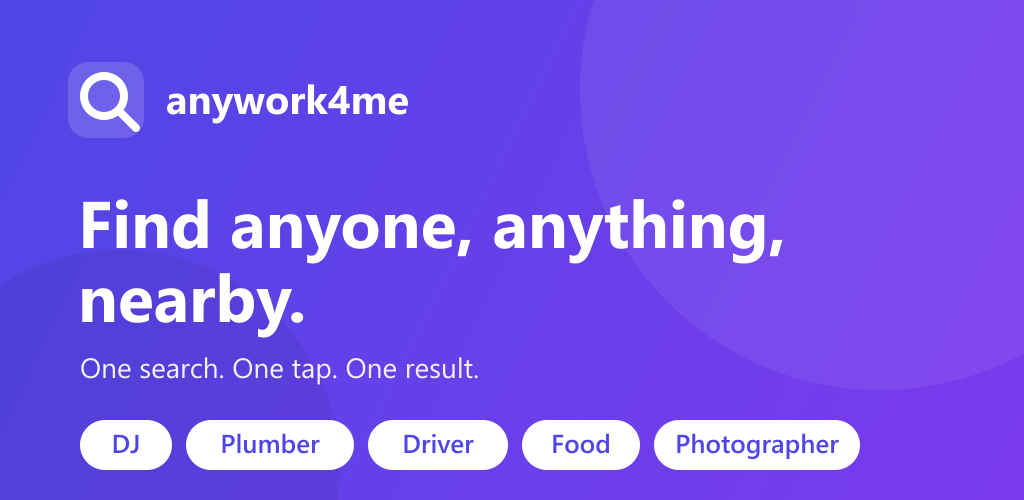
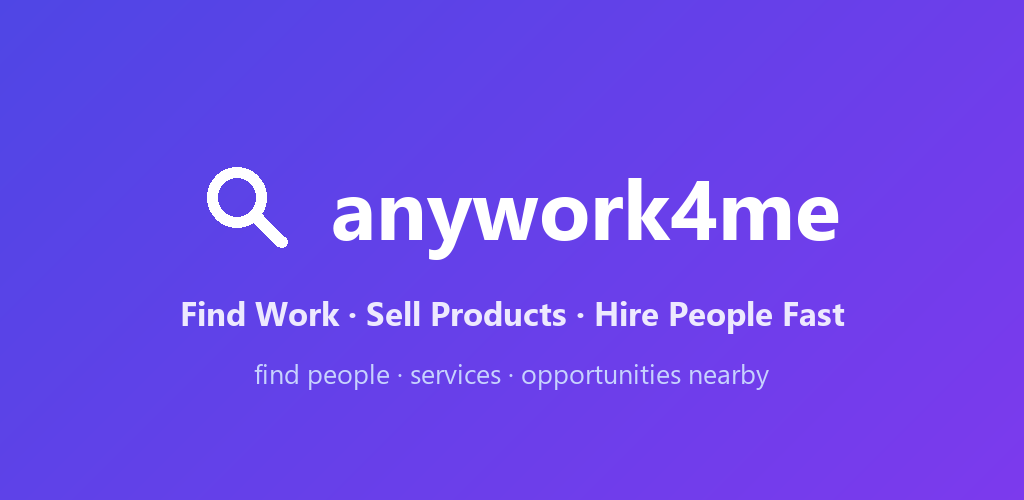
Purple social share image (og.png) + purple render scripts

diff --git a/scripts/render_reel.py b/scripts/render_reel.py
@@ -1,0 +1,254 @@
+"""Render the anywork4me summary as a real .mp4 (Pillow frames + ffmpeg) and an editable .pptx."""
+import math, os, subprocess, sys
+
+from PIL import Image, ImageDraw, ImageFont
+
+W, H = 1920, 1080
+BG = (67, 56, 202)          # #4338ca indigo-700 (brand purple)
+WHITE = (255, 255, 255)
+L1 = (199, 210, 254)        # #c7d2fe indigo-200
+L2 = (165, 180, 252)        # #a5b4fc indigo-300
+AMBER = (239, 159, 39)      # #EF9F27
+DARK = (49, 46, 129)        # #312e81 indigo-900
+GREY = (95, 94, 90)
+CHIPBG = (237, 233, 254)    # #ede9fe violet-100
+CHIPTX = (109, 40, 217)     # #6d28d9 violet-700
+BUB = (165, 180, 252)       # #a5b4fc indigo-300
+
+F = "C:/Windows/Fonts/segoeui.ttf"
+FB = "C:/Windows/Fonts/segoeuib.ttf"
+OUT = os.path.dirname(os.path.dirname(os.path.abspath(__file__)))
+
+
+def font(bold, size):
+    return ImageFont.truetype(FB if bold else F, size)
+
+
+def wrap(d, text, fnt, maxw):
+    words, lines, cur = text.split(), [], ""
+    for w in words:
+        t = (cur + " " + w).strip()
+        if d.textlength(t, font=fnt) <= maxw:
+            cur = t
+        else:
+            if cur:
+                lines.append(cur)
+            cur = w
+    if cur:
+        lines.append(cur)
+    return lines
+
+
+def center(d, cx, y, text, fnt, fill, anchor="mm"):
+    d.text((cx, y), text, font=fnt, fill=fill, anchor=anchor)
+
+
+def block(d, cx, y, lines, fnt, fill, lh):
+    for i, ln in enumerate(lines):
+        d.text((cx, y + i * lh), ln, font=fnt, fill=fill, anchor="mm")
+    return y + len(lines) * lh
+
+
+def tracked(d, cx, y, text, fnt, fill, track=10):
+    widths = [d.textlength(c, font=fnt) for c in text]
+    total = sum(widths) + track * (len(text) - 1)
+    x = cx - total / 2
+    for c, wd in zip(text, widths):
+        d.text((x, y), c, font=fnt, fill=fill, anchor="lm")
+        x += wd + track
+
+
+def star(d, cx, cy, r, fill):
+    pts = []
+    for k in range(10):
+        ang = -math.pi / 2 + k * math.pi / 5
+        rad = r if k % 2 == 0 else r * 0.42
+        pts.append((cx + rad * math.cos(ang), cy + rad * math.sin(ang)))
+    d.polygon(pts, fill=fill)
+
+
+def rrect(d, box, r, fill):
+    d.rounded_rectangle(box, radius=r, fill=fill)
+
+
+CX = W // 2
+
+
+def s_title(d):
+    rrect(d, [CX - 38, 300, CX + 38, 376], 18, WHITE)
+    d.text((CX, 338), "a", font=font(True, 64), fill=BG, anchor="mm")
+    center(d, CX, 500, "anywork4me", font(True, 132), WHITE)
+    center(d, CX, 612, "Find Work  ·  Sell Products  ·  Hire People Fast", font(False, 42), L1)
+    center(d, CX, 690, "the world's simplest local marketplace", font(False, 32), L2)
+
+
+def s_problem(d):
+    tracked(d, CX, 360, "THE PROBLEM", font(True, 30), L2, 8)
+    block(d, CX, 520, wrap(d, "Finding trusted local help is harder than it should be.",
+                           font(True, 78), 1400), font(True, 78), WHITE, 96)
+    center(d, CX, 760, "Scattered across WhatsApp groups, referrals and guesswork.",
+           font(False, 40), L1)
+
+
+def s_solution(d):
+    tracked(d, CX, 340, "THE SOLUTION", font(True, 30), L2, 8)
+    center(d, CX, 450, "One simple marketplace. Anywhere.", font(True, 80), WHITE)
+    rrect(d, [CX - 400, 590, CX + 400, 700], 26, WHITE)
+    d.ellipse([CX - 360, 630, CX - 332, 658], outline=GREY, width=4)
+    d.line([CX - 338, 656, CX - 326, 668], fill=GREY, width=4)
+    d.text((CX - 300, 645), "Find a DJ near me", font=font(False, 38), fill=DARK, anchor="lm")
+    rrect(d, [CX + 250, 624, CX + 372, 676], 26, CHIPBG)
+    d.text((CX + 311, 650), "Accra", font=font(False, 30), fill=CHIPTX, anchor="mm")
+    center(d, CX, 800, "Search what you need, nearby — in seconds.", font(False, 40), L1)
+
+
+def s_customers(d):
+    tracked(d, CX, 320, "FOR CUSTOMERS", font(True, 30), L2, 8)
+    center(d, CX, 420, "Find & hire with confidence.", font(True, 80), WHITE)
+    rrect(d, [CX - 360, 540, CX + 360, 760], 28, WHITE)
+    d.ellipse([CX - 320, 580, CX - 240, 660], fill=(79, 70, 229))
+    d.text((CX - 280, 620), "M", font=font(True, 44), fill=WHITE, anchor="mm")
+    d.text((CX - 210, 598), "By Maali", font=font(True, 40), fill=DARK, anchor="lm")
+    d.text((CX - 210, 644), "Mechanic · Accra", font=font(False, 32), fill=GREY, anchor="lm")
+    sx = CX - 210
+    for k in range(5):
+        star(d, sx + k * 50, 712, 19, AMBER)
+    d.text((sx + 270, 712), "4.9", font=font(True, 34), fill=DARK, anchor="lm")
+    center(d, CX, 860, "Real ratings, safe contact, book on the spot.", font(False, 40), L1)
+
+
+def s_providers(d):
+    tracked(d, CX, 360, "FOR PROVIDERS", font(True, 30), L2, 8)
+    center(d, CX, 480, "List free. Get found. Get booked.", font(True, 84), WHITE)
+    block(d, CX, 650, wrap(d, "Create a profile in minutes — welder to wedding DJ. "
+                           "Free to start, Pro to grow.", font(False, 42), 1300),
+          font(False, 42), L1, 60)
+
+
+def s_messaging(d):
+    tracked(d, CX, 320, "MESSAGING & BOOKING", font(True, 30), L2, 8)
+    center(d, CX, 420, "Chat & book — right on the site.", font(True, 78), WHITE)
+    rrect(d, [CX - 430, 540, CX - 40, 620], 24, WHITE)
+    d.text((CX - 410, 580), "Hi, available this weekend?", font=font(False, 32), fill=DARK, anchor="lm")
+    rrect(d, [CX + 30, 660, CX + 420, 740], 24, BUB)
+    d.text((CX + 50, 700), "Yes — let's book it.", font=font(False, 32), fill=DARK, anchor="lm")
+    center(d, CX, 850, "Two-way messages and instant booking alerts, in-app.", font(False, 40), L1)
+
+
+def s_global(d):
+    tracked(d, CX, 340, "BUILT TO SCALE", font(True, 30), L2, 8)
+    center(d, CX, 450, "Country-agnostic. Mobile-first.", font(True, 80), WHITE)
+    chips = ["GH₵", "₦", "$", "KSh", "R"]
+    gap = 26
+    fnt = font(True, 40)
+    ws = [max(96, d.textlength(c, font=fnt) + 60) for c in chips]
+    total = sum(ws) + gap * (len(chips) - 1)
+    x = CX - total / 2
+    for c, wd in zip(chips, ws):
+        rrect(d, [x, 600, x + wd, 684], 42, WHITE)
+        d.text((x + wd / 2, 642), c, font=fnt, fill=BG, anchor="mm")
+        x += wd + gap
+    center(d, CX, 800, "Any country, any currency — one platform.", font(False, 40), L1)
+
+
+def s_cta(d):
+    center(d, CX, 430, "anywork4me.com", font(True, 104), WHITE)
+    center(d, CX, 560, "Find Work  ·  Sell Products  ·  Hire People Fast", font(False, 42), L1)
+    rrect(d, [CX - 200, 660, CX + 200, 752], 46, WHITE)
+    center(d, CX, 706, "Join free today", font(True, 42), BG)
+
+
+SCENES = [
+    ("THE PROBLEM", s_title, "anywork4me", "the world's simplest local marketplace"),
+    ("THE PROBLEM", s_problem, "Finding trusted local help is harder than it should be.",
+     "Scattered across WhatsApp groups, referrals and guesswork."),
+    ("THE SOLUTION", s_solution, "One simple marketplace. Anywhere.",
+     "Search what you need, nearby — in seconds."),
+    ("FOR CUSTOMERS", s_customers, "Find & hire with confidence.",
+     "Real ratings, safe contact, book on the spot."),
+    ("FOR PROVIDERS", s_providers, "List free. Get found. Get booked.",
+     "Create a profile in minutes — welder to wedding DJ. Free to start, Pro to grow."),
+    ("MESSAGING & BOOKING", s_messaging, "Chat & book — right on the site.",
+     "Two-way messages and instant booking alerts, in-app."),
+    ("BUILT TO SCALE", s_global, "Country-agnostic. Mobile-first.",
+     "Any country, any currency — one platform."),
+    ("JOIN", s_cta, "anywork4me.com", "Find Work · Sell Products · Hire People Fast"),
+]
+
+draws = [s_title, s_problem, s_solution, s_customers, s_providers, s_messaging, s_global, s_cta]
+frames = []
+for i, fn in enumerate(draws):
+    img = Image.new("RGB", (W, H), BG)
+    fn(ImageDraw.Draw(img))
+    p = os.path.join(OUT, f"_frame_{i}.png")
+    img.save(p)
+    frames.append(p)
+print("frames:", len(frames))
+
+# ---- mp4 via ffmpeg xfade, fallback to hard-cut concat ----
+mp4 = os.path.join(OUT, "anywork4me_summary.mp4")
+dur, xf, clip = 4.0, 0.6, 4.6
+ins = []
+for p in frames:
+    ins += ["-loop", "1", "-t", str(clip), "-i", p]
+parts, prev, off = [], "[0:v]", dur
+for i in range(1, len(frames)):
+    out = f"[v{i}]" if i < len(frames) - 1 else "[vout]"
+    parts.append(f"{prev}[{i}:v]xfade=transition=fade:duration={xf}:offset={off:.2f}{out}")
+    prev, off = out, off + dur
+fc = ";".join(parts)
+cmd = ["ffmpeg", "-y", *ins, "-filter_complex", fc, "-map", "[vout]",
+       "-r", "30", "-pix_fmt", "yuv420p", "-c:v", "libx264", "-movflags", "+faststart", mp4]
+r = subprocess.run(cmd, capture_output=True, text=True)
+if r.returncode != 0:
+    print("xfade failed, using hard-cut concat\n", r.stderr[-600:])
+    lst = os.path.join(OUT, "_list.txt")
+    with open(lst, "w") as f:
+        for p in frames:
+            f.write(f"file '{p.replace(os.sep, '/')}'\nduration {dur}\n")
+        f.write(f"file '{frames[-1].replace(os.sep, '/')}'\n")
+    subprocess.run(["ffmpeg", "-y", "-f", "concat", "-safe", "0", "-i", lst,
+                    "-r", "30", "-pix_fmt", "yuv420p", "-c:v", "libx264", mp4], check=True)
+print("mp4:", os.path.exists(mp4), round(os.path.getsize(mp4) / 1024) if os.path.exists(mp4) else 0, "KB")
+
+# ---- editable pptx ----
+from pptx import Presentation
+from pptx.util import Inches, Pt
+from pptx.dml.color import RGBColor
+from pptx.enum.text import PP_ALIGN
+
+prs = Presentation()
+prs.slide_width, prs.slide_height = Inches(13.333), Inches(7.5)
+blank = prs.slide_layouts[6]
+for kicker, _, title, sub in SCENES:
+    s = prs.slides.add_slide(blank)
+    s.background.fill.solid()
+    s.background.fill.fore_color.rgb = RGBColor(0x43, 0x38, 0xCA)
+
+    def tb(top, height, text, size, bold, rgb, sz_align=PP_ALIGN.CENTER):
+        box = s.shapes.add_textbox(Inches(1), Inches(top), Inches(11.333), Inches(height))
+        tf = box.text_frame
+        tf.word_wrap = True
+        p = tf.paragraphs[0]
+        p.alignment = sz_align
+        run = p.add_run()
+        run.text = text
+        run.font.size = Pt(size)
+        run.font.bold = bold
+        run.font.color.rgb = RGBColor(*rgb)
+        run.font.name = "Segoe UI"
+
+    tb(2.3, 0.5, kicker, 16, True, (0xA5, 0xB4, 0xFC))
+    tb(2.9, 1.8, title, 40, True, (255, 255, 255))
+    tb(4.9, 1.0, sub, 20, False, (0xC7, 0xD2, 0xFE))
+
+pptx = os.path.join(OUT, "anywork4me_summary.pptx")
+prs.save(pptx)
+print("pptx:", os.path.exists(pptx), round(os.path.getsize(pptx) / 1024), "KB")
+
+for p in frames:
+    try:
+        os.remove(p)
+    except OSError:
+        pass
+print("DONE")

diff --git a/scripts/render_logo.py b/scripts/render_logo.py
@@ -1,0 +1,114 @@
+"""Generate anywork4me logo files — square + landscape (light & dark) — in the live sea-blue brand."""
+import os
+from PIL import Image, ImageDraw, ImageFont
+
+ACCENT = (79, 70, 229)     # #4f46e5 indigo
+ACCENT2 = (124, 58, 237)   # #7c3aed violet
+WHITE = (255, 255, 255)
+GREY = (90, 95, 100)
+LSUB = (196, 181, 253)     # light lavender
+FB = "C:/Windows/Fonts/segoeuib.ttf"
+F = "C:/Windows/Fonts/segoeui.ttf"
+OUT = os.path.dirname(os.path.dirname(os.path.abspath(__file__)))
+
+
+def font(bold, size):
+    return ImageFont.truetype(FB if bold else F, size)
+
+
+def grad(size, c1, c2):
+    maxd = 2 * (size - 1)
+    lut = [(round(c1[0] + (c2[0] - c1[0]) * d / maxd),
+            round(c1[1] + (c2[1] - c1[1]) * d / maxd),
+            round(c1[2] + (c2[2] - c1[2]) * d / maxd)) for d in range(maxd + 1)]
+    img = Image.new("RGB", (size, size))
+    img.putdata([lut[x + y] for y in range(size) for x in range(size)])
+    return img
+
+
+def grad_rect(w, h, c1, c2):
+    maxd = (w - 1) + (h - 1)
+    lut = [(round(c1[0] + (c2[0] - c1[0]) * d / maxd),
+            round(c1[1] + (c2[1] - c1[1]) * d / maxd),
+            round(c1[2] + (c2[2] - c1[2]) * d / maxd)) for d in range(maxd + 1)]
+    img = Image.new("RGB", (w, h))
+    img.putdata([lut[x + y] for y in range(h) for x in range(w)])
+    return img
+
+
+def rounded_alpha(img, radius):
+    mask = Image.new("L", img.size, 0)
+    ImageDraw.Draw(mask).rounded_rectangle([0, 0, img.size[0] - 1, img.size[1] - 1], radius=radius, fill=255)
+    img.putalpha(mask)
+    return img
+
+
+def draw_mark(d, cx, cy, box, color):
+    s = box / 512 * 1.3
+    sw = max(2, round(36 * s))
+
+    def T(px, py):
+        return (cx + (px - 253) * s, cy + (py - 253) * s)
+
+    c = T(228, 228)
+    R = 98 * s
+    d.ellipse([c[0] - R, c[1] - R, c[0] + R, c[1] + R], outline=color, width=sw)
+    a, b = T(300, 300), T(376, 376)
+    d.line([a[0], a[1], b[0], b[1]], fill=color, width=sw)
+    r = sw / 2
+    for p in (a, b):
+        d.ellipse([p[0] - r, p[1] - r, p[0] + r, p[1] + r], fill=color)
+
+
+# ---- landscape (transparent bg) ----
+tile = grad(360, ACCENT, ACCENT2).convert("RGBA")
+draw_mark(ImageDraw.Draw(tile), 180, 180, 360, WHITE)
+rounded_alpha(tile, 86)
+
+
+def landscape(word_color, sub_color, name):
+    c = Image.new("RGBA", (1600, 440), (0, 0, 0, 0))
+    c.alpha_composite(tile, (40, 40))
+    d = ImageDraw.Draw(c)
+    d.text((470, 178), "anywork4me", font=font(True, 150), fill=word_color, anchor="lm")
+    d.text((476, 300), "find people · services · opportunities nearby",
+           font=font(False, 33), fill=sub_color, anchor="lm")
+    p = os.path.join(OUT, name)
+    c.save(p)
+    return p
+
+
+# ---- square (gradient tile) ----
+sq = Image.new("RGBA", (1024, 1024), (0, 0, 0, 0))
+tilefull = rounded_alpha(grad(1024, ACCENT, ACCENT2).convert("RGBA"), 200)
+sq.alpha_composite(tilefull, (0, 0))
+d = ImageDraw.Draw(sq)
+draw_mark(d, 512, 402, 470, WHITE)
+d.text((512, 772), "anywork4me", font=font(True, 116), fill=WHITE, anchor="mm")
+sqp = os.path.join(OUT, "logo-square.png")
+sq.save(sqp)
+
+p1 = landscape(ACCENT, GREY, "logo-landscape-light.png")
+p2 = landscape(WHITE, LSUB, "logo-landscape-dark.png")
+
+# ---- og.png social-share card (1024x500), overwrites the old blue one ----
+ogw, ogh = 1024, 500
+og = grad_rect(ogw, ogh, ACCENT, ACCENT2).convert("RGBA")
+od = ImageDraw.Draw(og)
+wf = font(True, 84)
+word = "anywork4me"
+mbox, gap = 120, 26
+ww = od.textlength(word, font=wf)
+startx = (ogw - (mbox + gap + ww)) / 2
+draw_mark(od, startx + mbox / 2, 205, mbox, WHITE)
+od.text((startx + mbox + gap, 205), word, font=wf, fill=WHITE, anchor="lm")
+od.text((ogw / 2, 312), "Find Work · Sell Products · Hire People Fast", font=font(True, 33),
+        fill=(237, 233, 254), anchor="mm")
+od.text((ogw / 2, 372), "find people · services · opportunities nearby", font=font(False, 27),
+        fill=(199, 210, 254), anchor="mm")
+ogp = os.path.join(OUT, "public", "og.png")
+og.save(ogp)
+
+for p in (sqp, p1, p2, ogp):
+    print(os.path.basename(p), os.path.exists(p), round(os.path.getsize(p) / 1024), "KB")
+print("DONE")